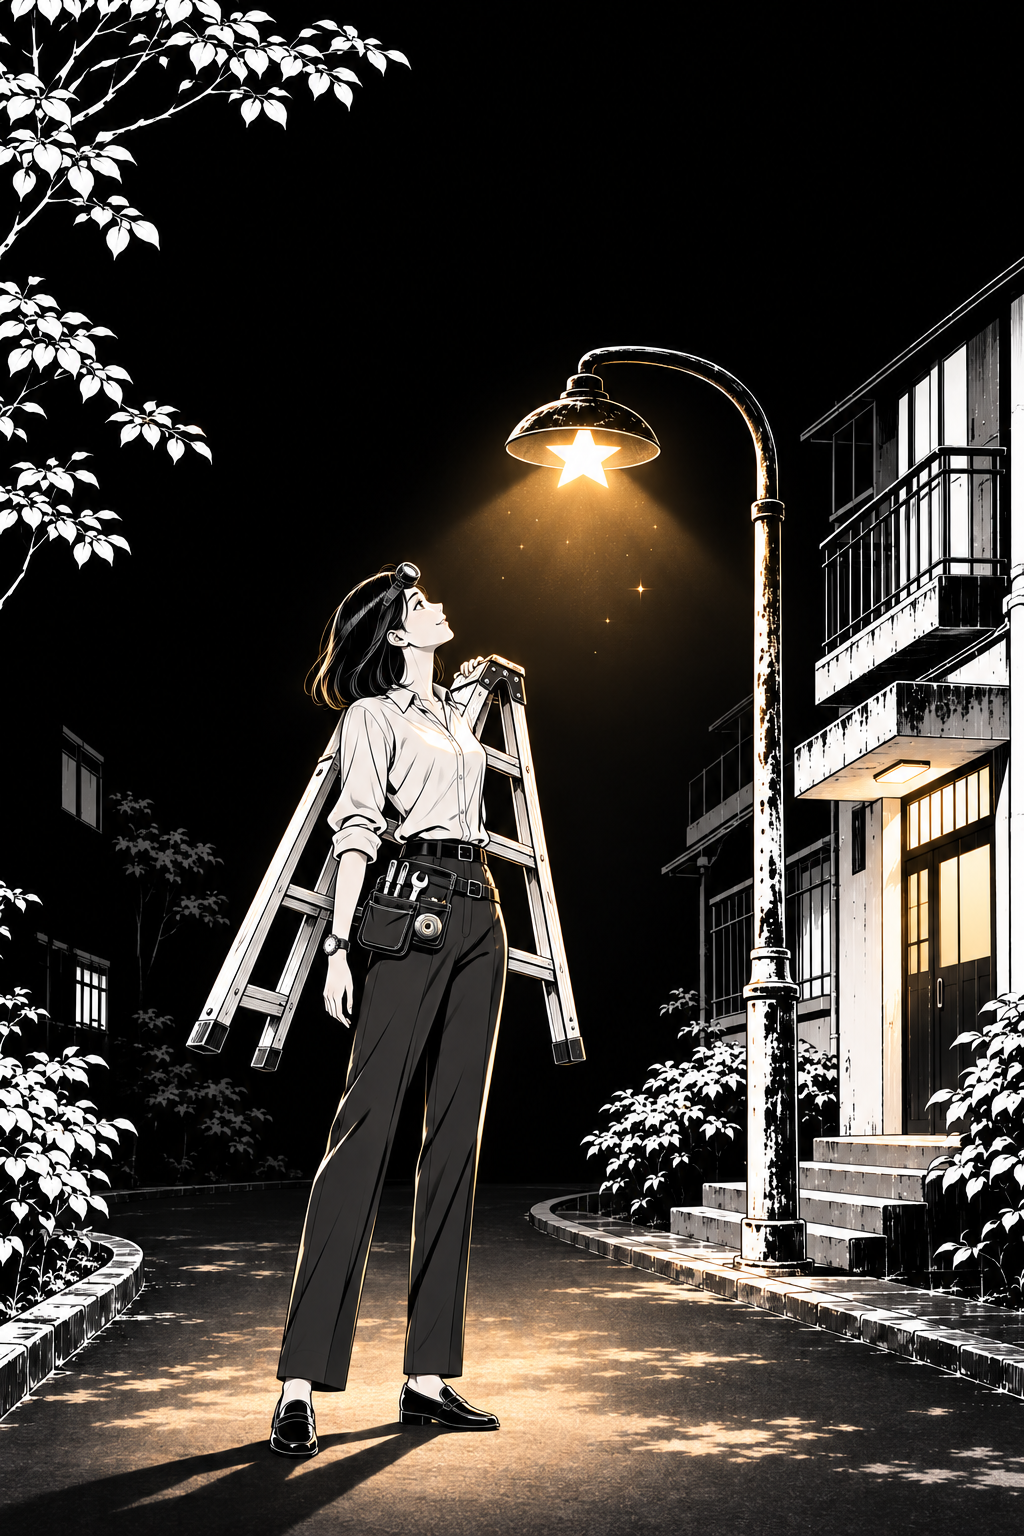
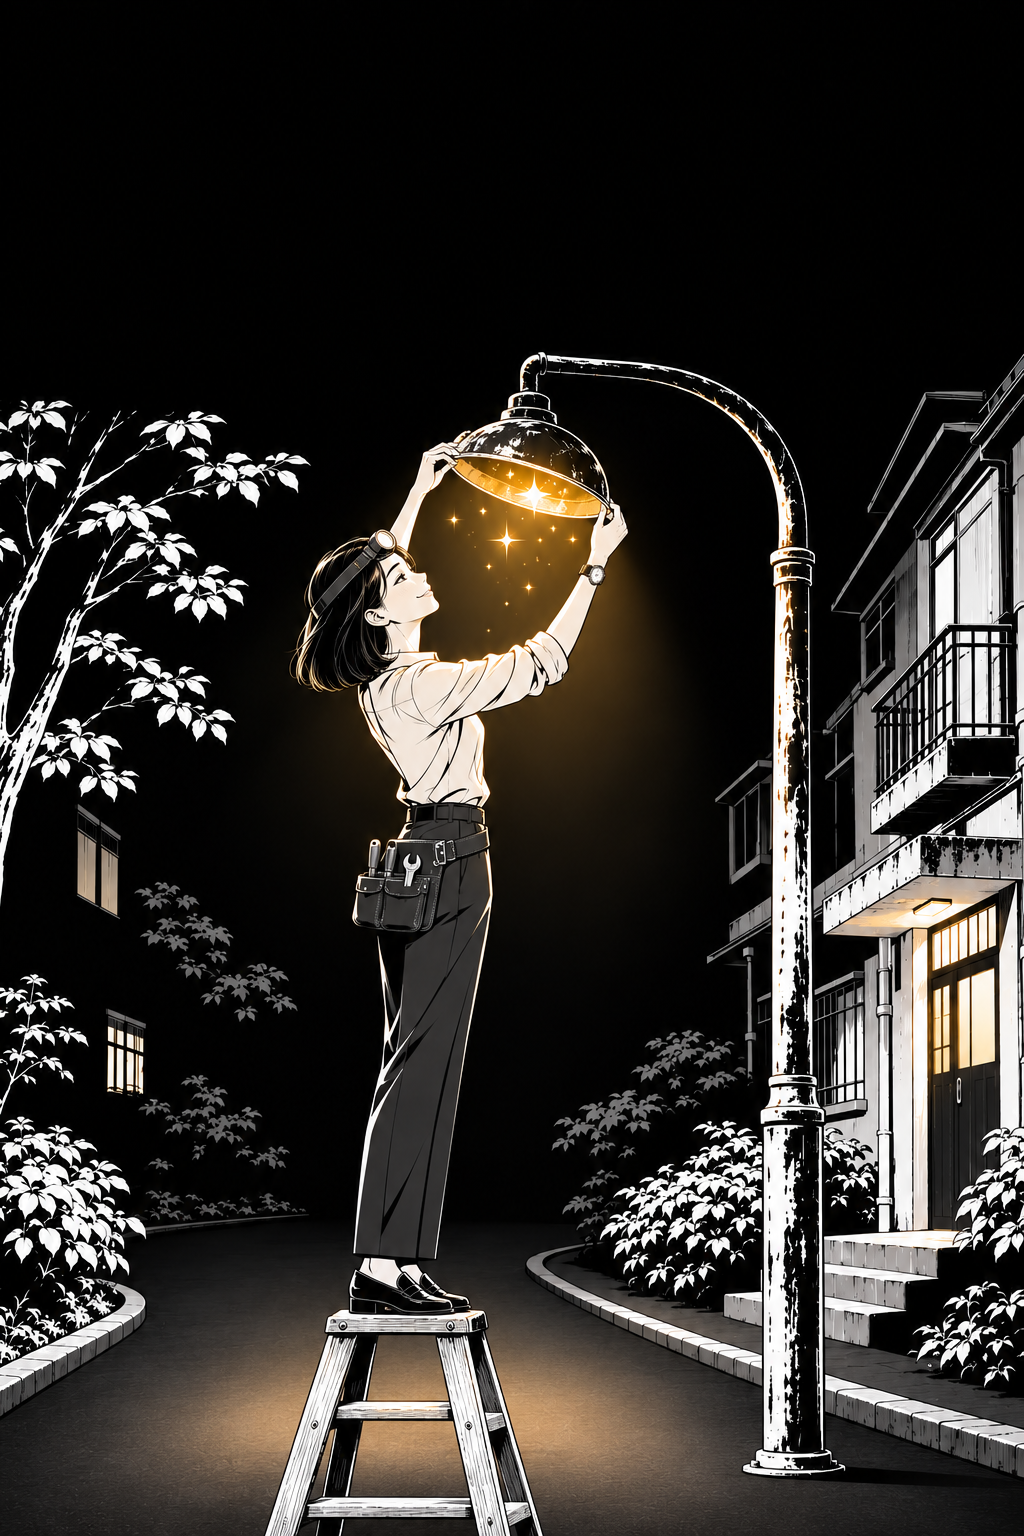
[视频] ep02 第二版样张：封面改成梯子顶上开灯罩，P5b 用 H3 取出星星，星忽明忽暗

diff --git a/ep02/h3.py b/ep02/h3.py
@@ -1,0 +1,121 @@
+"""第 2 期视频的 H3 镜头（4090 上的 MiniMax H3，排队方式同 ../ep01/h3.py：只往空着的实例里插）。
+
+  ../../../ucl-video/.venv/bin/python h3.py [镜头 ...]     出 h3/<镜头>_s<种子>.mp4，已有的跳过
+
+  5b   取星：首帧她的手伸进发光的灯罩（art/5b_first），尾帧星托在掌心、灯罩黑了（art/5b）
+"""
+import os
+import subprocess
+import sys
+import time
+
+import importlib.util
+
+from PIL import Image
+
+HERE = os.path.dirname(os.path.abspath(__file__))
+# 第 1 期的 h3.py：MEDIUM / ENDING 提示词、M（museum/h3.py）、remote。和本文件同名，只能按路径载入
+_spec = importlib.util.spec_from_file_location("ep01_h3", os.path.join(HERE, "..", "ep01", "h3.py"))
+E = importlib.util.module_from_spec(_spec)
+_spec.loader.exec_module(E)
+M, remote = E.M, E.remote
+
+OUT = os.path.join(HERE, "h3")
+SUB, WORK = "yecat02", f"{remote.ROOT}/h3_yecat02"
+SEEDS = [int(s) for s in os.environ.get("H3_SEEDS", "42,7").split(",")]
+# 第 1 期的 MEDIUM 写了黑猫，没有猫的镜头会凭空画出一只猫来：换成不提猫、只有一颗星的版本
+ONE_STAR = ("A black-and-white manga illustration: clean black ink line art and screentone on white paper. "
+            "The only colour is soft gold, used only for one small glowing star and the light it gives. "
+            "The young woman has short black bob hair and a white shirt. There is no cat and no animal anywhere in this scene, "
+            "and there is only that one star, no other stars or sparkles. Everything stays black-and-white ink manga line art. ")
+MEDIUM = {"5b": ONE_STAR}
+SHOTS = {
+    "5b": (os.path.join(HERE, "art", "5b_first.png"), os.path.join(HERE, "art", "5b.png"),
+           "At night on top of the wooden ladder, the young woman reaches into the open round metal lamp shade and gently lifts out "
+           "the small glowing gold star; as the star leaves, the inside of the lamp shade goes dark; she brings the star down and holds it "
+           "in her open palm, where it flickers softly, brighter and dimmer, like a breathing candle. The lamp post, the tree and the building stay still."),
+}
+
+
+def jobs(keys):
+    js = []
+    for k in keys:
+        for seed in SEEDS:
+            if not os.path.exists(os.path.join(OUT, f"{k}_s{seed}.mp4")):
+                w, h = (1248, 832) if Image.open(SHOTS[k][0]).width > Image.open(SHOTS[k][0]).height else (832, 1248)
+                js.append(dict(k=k, seed=seed, tag=f"yecat02_{k}_s{seed}", w=w, h=h, tries=0))
+    return js
+
+
+def upload(js):
+    M.sh(f"mkdir -p {M.COMFY_IN}/{SUB} {WORK}")
+    tmp = os.path.join(OUT, "_prompts")
+    os.makedirs(tmp, exist_ok=True)
+    for j in js:
+        first, last, motion = SHOTS[j["k"]]
+        open(os.path.join(tmp, j["tag"] + ".txt"), "w").write(MEDIUM.get(j["k"], E.MEDIUM) + motion + E.ENDING)
+        for role, src in (("first", first), ("last", last)):
+            if src:
+                remote._retry(["scp", "-q"] + remote.OPTS + [src, f"{remote.HOST}:{M.COMFY_IN}/{SUB}/{j['k']}_{role}.png"], check=True)
+    remote._retry(["scp", "-q", "-r"] + remote.OPTS + [tmp + "/.", f"{remote.HOST}:{WORK}/"], check=True)
+
+
+def launch(j, port):
+    j["tries"] += 1
+    j["port"] = port
+    last = f"--last {SUB}/{j['k']}_last.png " if SHOTS[j["k"]][1] else ""
+    args = (f"--port {port} --first {SUB}/{j['k']}_first.png {last}--w {j['w']} --h {j['h']} --sec 6 --steps 8 --lora {M.LORA} "
+            f"--seed {j['seed'] + j['tries'] - 1} --prompt-file {WORK}/{j['tag']}.txt --prefix {SUB}/{j['tag']}")
+    M.sh(f"(cd /home/huanghaibin/bin; setsid nohup {M.PY} -u {M.H3RUN} {args} > {WORK}/{j['tag']}.log 2>&1 < /dev/null &)")
+    print(f"launch {j['tag']} on {port} (try {j['tries']})", flush=True)
+
+
+def status(j):
+    log = M.sh(f"cat {WORK}/{j['tag']}.log 2>/dev/null")
+    for line in log.splitlines():
+        if line.startswith("DONE"):
+            return "done", line[line.index("["):].strip("[]' ").split("'")[0]
+    if "Traceback" in log or "status_str" in log or "Error" in log:
+        return "fail", log[-800:]
+    return "run", None
+
+
+def fetch(j, rel):
+    raw = os.path.join(OUT, f"_raw_{j['tag']}.mp4")
+    remote._retry(["scp", "-q"] + remote.OPTS + [f"{remote.HOST}:{M.COMFY_OUT}/{rel}", raw], check=True)
+    subprocess.run([E.imageio_ffmpeg.get_ffmpeg_exe(), "-y", "-loglevel", "error", "-i", raw, "-an", "-c:v", "copy",
+                    os.path.join(OUT, f"{j['k']}_s{j['seed']}.mp4")], check=True)
+    os.remove(raw)
+    print(f"done {j['tag']}", flush=True)
+
+
+def run(keys):
+    todo = jobs(keys)
+    if not todo:
+        return
+    upload(todo)
+    flying = []
+    while todo or flying:
+        for j in list(flying):
+            st, info = status(j)
+            if st == "done":
+                fetch(j, info)
+                flying.remove(j)
+            elif st == "fail":
+                print(f"fail {j['tag']}: {info}", flush=True)
+                flying.remove(j)
+                if j["tries"] < 3:
+                    todo.append(j)
+        busy = {j["port"] for j in flying}
+        for port, (running, pending) in sorted(M.queues().items(), key=lambda kv: kv[1]):
+            if todo and port not in busy and running == 0 and pending == 0:
+                j = todo.pop(0)
+                launch(j, port)
+                flying.append(j)
+                busy.add(port)
+        time.sleep(30)
+
+
+if __name__ == "__main__":
+    os.makedirs(OUT, exist_ok=True)
+    run(sys.argv[1:] or list(SHOTS))

diff --git a/ep02/motion.py b/ep02/motion.py
@@ -3,6 +3,7 @@
   glow 的 ("on", 起, 用时)：区域里的金光先暗着，到“起”秒用“用时”慢慢亮起来，亮了以后轻轻呼吸
     （P6：先亮掌心的星，再亮弯臂上那双眼睛）
   ("on", 起, 用时, "lum")：不只金色，区域里所有亮的线（白色的月牙、耳朵轮廓）都先全黑
+  ("on", 起, 用时, "flicker") / "flicker"：星的光忽明忽暗，不是匀速呼吸（用户 11-05 要求）
   PUSH：某个时刻起很慢地往一个点推近（P6 眼睛亮了以后推向弯臂，眼睛在手机上太小）
 
 第 1 期重做的 ../ep01r/motion.py 按第 1 期的镜头编号写死了冰箱、换姿势、走远，这里不继承它，用到时再借它的函数。
@@ -24,11 +25,29 @@ import layers as L  # noqa: E402
 L.ART = os.path.join(HERE, "art")
 L.SPEC.clear()
 L.SPEC.update({
-    "6": dict(glow=[((440, 380, 700, 640), ("on", 0.5, 1.8)), ((470, 90, 830, 228), ("on", 3.4, 2.2, "lum"))]),
-    "7": dict(glow=[((464, 600, 694, 820), "pulse")], twinkle=[(664, 420, 904, 720)]),  # 掌心的星呼吸；尾尖闪（图已左右翻转，灯杆在右）
+    "1": dict(glow=[((380, 330, 660, 600), "flicker")]),  # 灯罩里的星光
+    "5a": dict(glow=[((400, 220, 1210, 730), "flicker")]),  # 星把灯罩里照亮，一起忽明忽暗
+    "6": dict(glow=[((440, 380, 700, 640), ("on", 0.5, 1.8, "flicker")), ((470, 90, 830, 228), ("on", 3.4, 2.2, "lum"))]),
+    "7": dict(glow=[((464, 600, 694, 820), "flicker")], twinkle=[(664, 420, 904, 720)]),  # 掌心的星；尾尖闪（图已左右翻转，灯杆在右）
 })
 
 PUSH = {"6": dict(at=3.4, secs=8.0, zoom=1.08, center=(600, 200))}  # 起、用时、推到多大、朝哪一点
+
+
+def flicker(t, seed=0):
+    """星的亮度倍数，大约 0.5–1.35：几条不成整数比的正弦叠起来，偶尔往下暗一下，像快没电的星。"""
+    u = t + seed * 1.7
+    v = 0.55 * math.sin(2 * math.pi * u / 1.9) + 0.3 * math.sin(2 * math.pi * u / 0.73 + 1.1) + 0.15 * math.sin(2 * math.pi * u / 0.31 + 2.3)
+    dip = max(0.0, math.sin(2 * math.pi * u / 3.7 + 0.4)) ** 12  # 每三四秒一次明显变暗
+    return 0.95 + 0.4 * v - 0.4 * dip
+
+
+def dim(a, m, f, dark_k=0.22):
+    """把遮罩里的光调到 f 倍：小于 1 往夜色里退，大于 1 更亮。"""
+    if f < 1:
+        dark = a.mean(2, keepdims=True) * dark_k
+        return a * (1 - m * (1 - f)) + dark * m * (1 - f)
+    return a + a * (f - 1) * m
 
 
 class Shot(L.Layered):
@@ -44,9 +63,11 @@ class Shot(L.Layered):
         for m, mode in self.glows:
             if isinstance(mode, tuple):
                 t0, ramp = mode[1], mode[2]
-                f = L.ease((t - t0) / ramp) * (1 + 0.08 * math.sin(2 * math.pi * max(0.0, t - t0 - ramp) / 4.2))
-                dark = a.mean(2, keepdims=True) * (0.03 if mode[-1] == "lum" else 0.22)
-                a = a * (1 - m * (1 - f)) + dark * m * (1 - f) if f < 1 else a + a * (f - 1) * m
+                after = max(0.0, t - t0 - ramp)
+                k = flicker(after) if mode[-1] == "flicker" else 1 + 0.08 * math.sin(2 * math.pi * after / 4.2)
+                a = dim(a, m, L.ease((t - t0) / ramp) * (k if t > t0 + ramp else min(1.0, k)), 0.03 if mode[-1] == "lum" else 0.22)
+            elif mode == "flicker":
+                a = dim(a, m, flicker(t, len(self.key)))
             elif mode == "pulse":
                 a = a + a * 0.10 * math.sin(2 * math.pi * t / 4.2) * m
         return a
@@ -66,14 +87,15 @@ class Shot(L.Layered):
 
 def check():
     rows = []
-    for k, ts in {"6": [0.2, 1.2, 2.6, 3.8, 5.0, 7.5]}.items():
+    for k, ts in {"1": [0.3, 0.9, 1.5, 2.1, 2.7, 3.3], "5a": [0.3, 0.9, 1.5, 2.1, 2.7, 3.3],
+                  "6": [0.2, 1.2, 2.6, 3.8, 5.0, 7.5], "7": [0.3, 0.9, 1.5, 2.1, 2.7, 3.3]}.items():
         sh = Shot(k, 9.0)
         rows.append([sh.frame(t).resize((300, int(300 * sh.H / sh.W))) for t in ts])
-    w, h = 300 * max(len(r) for r in rows), max(r[0].height for r in rows)
-    out = Image.new("RGB", (w, h * len(rows)))
+    w, hs = 300 * max(len(r) for r in rows), [r[0].height for r in rows]
+    out = Image.new("RGB", (w, sum(hs)))
     for i, r in enumerate(rows):
         for j, im in enumerate(r):
-            out.paste(im, (j * 300, i * h))
+            out.paste(im, (j * 300, sum(hs[:i])))
     os.makedirs(os.path.join(HERE, "build"), exist_ok=True)
     out.save(os.path.join(HERE, "build", "motion_check.jpg"), quality=85)
 

diff --git a/ep02/gen.py b/ep02/gen.py
@@ -33,14 +33,23 @@ EDITS = {2: (os.path.join(ROOT, "ep01r", "var", "5a_dry.png"),
              "黑白和金色、女孩的位置大小、路灯的光完全一样。画面里不要任何文字。")}
 # 剧本里的路灯参考是第 1 期的 5a（下雨、弯臂上有猫），照着画会把雨和猫一起画进来：换成 P2 这张不下雨、没猫的
 LAMP_REF = {"ep01/art_C/5a.png": os.path.join(ART, "2.png")}
+# 两格页的参考：剧本写的是第 1 期冰箱那张（为了星的样子），图模型会照搬冰箱和白天；换成同一晚、同一盏灯的 P6
+PANEL_REF = {"5a": os.path.join(ART, "6.png"), "5b": os.path.join(ART, "6.png"), "8a": os.path.join(ART, "6.png")}
+LAMP = "路灯和第三张参考图里的完全一样：灯杆在画面右边，弯臂往左弯，弯臂头上一只朝下的圆铁皮灯罩；没有月亮，没有远处的高楼。"
 DARK = "路灯的灯罩被拆开了，灯是黑的、一点光都不发；画面里只有一盏路灯，没有别的灯。没有下雨。"
+EDITS_AFTER = {  # 照已出的格子改一处，当 H3 的首帧
+    "5b_first": ("5b", "同一张图，只改这一处：那颗发光的小五角星还在敞开的灯罩里、坐在空的螺口灯座旁，把灯罩内壁照成金色；"
+                       "她的一只手伸进灯罩、指尖快碰到那颗星，另一只手扶着灯罩边；她的掌心里还没有星。其他所有东西一点都不要改："
+                       "构图、线条、画风、黑白和金色、人物的位置大小完全一样。画面里不要任何文字。"),
+}
 # 出图补充：剧本写了、但图模型老画错的地方
 HINT = {
-    "5b": DARK,
+    "5a": "黑夜，室外，她站在梯子顶上；特写只拍敞开的灯罩和她戴手套的那只手，背景是全黑的夜，没有窗户、没有房间、没有白天的光。",
+    "5b": DARK + LAMP,
     "6": DARK + "镜头放在梯子下方很低的地方往上仰拍。路灯弯臂上的黑猫几乎完全融进黑夜，看不见身体和毛，只看得见两点琥珀金的眼睛、"
          "额头一道金色月牙和一圈极淡的金色耳朵轮廓。",
     "7": DARK,
-    "8a": DARK,
+    "8a": DARK + LAMP,
 }
 
 
@@ -52,6 +61,10 @@ def art(key):
     """key：页码，或 "5a" / "5b"（两格页的上下格，横图）。"""
     out = os.path.join(ART, f"{key}.png")
     if os.path.exists(out):
+        return out
+    if key in EDITS_AFTER:
+        src, prompt = EDITS_AFTER[key]
+        base.edit(prompt, [art(src)], out, size="1536x1024")
         return out
     no = int(str(key).rstrip("ab"))
     p = PAGES[no]
@@ -67,7 +80,7 @@ def art(key):
         layout = G.COVER_LAYOUT if no == 1 else "竖版构图：人物和主要内容在画面中间偏上，脸部完整清楚。"
         size = "1024x1536"
     refs = [G.REF, G.GIRL_REF]
-    extra = [LAMP_REF.get(r, os.path.join(ROOT, r)) for r in p["refs"]][:1]
+    extra = [PANEL_REF[key]] if key in PANEL_REF else [LAMP_REF.get(r, os.path.join(ROOT, r)) for r in p["refs"]][:1]
     ref_note = "第三张参考图是故事里那个地方（路灯、房间）原来的样子，场景照它画，但人物的动作和构图照这里写的。" if extra else ""
     who = (G.GIRL + "。" if "她" in scene else "") + (CAT_WORK + "。" if has_cat(scene) else "")
     base.edit(f"{G.STYLE}。{who}场景：{scene}{HINT.get(str(key), "")}{layout}{ref_note}{G.NO_TEXT}", refs + extra, out, size=size)

diff --git a/ep02/video.py b/ep02/video.py
@@ -3,6 +3,8 @@
   ../../../ucl-video/.venv/bin/python video.py              # 出 和夜一起住02.mp4
   ONLY=6 ../../../ucl-video/.venv/bin/python video.py       # 只出这几个镜头（样张），出 样张_6.mp4
 
+5b（取星）放 H3 片段，其余镜头是分层动效（motion.py）。
+
 字幕四种样式（配方.md）：旁白白字；晴白字 + 黑白“晴”字章；夜琥珀色 + 金“夜”字章；配角灰字。
 纸条按写纸条的人走晴或夜的样式。封面的标题叠在第一个镜头上。
 """
@@ -23,7 +25,25 @@ from PIL import Image, ImageDraw  # noqa: E402
 
 V.ART = os.path.join(HERE, "art")
 V.layers.Layered = motion.Shot
-V.H3_SHOTS = []
+# H3 片段（h3.py 出）：5b 取星。环境变量 C5B 换种子
+CLIPS = {"5b": os.path.join(HERE, "h3", os.environ.get("C5B", "5b_s42") + ".mp4")}
+V.H3_SHOTS = list(CLIPS)
+_load = V.Shot.load
+
+
+def load(self):
+    """取星那一下灯罩本来就该变暗：不对首帧校色、不剪暗掉的帧（同第 1 期的 7b、重做版的 n2）。"""
+    if self.key != "5b" or self.frames is not None or not os.path.exists(self.clip):
+        return _load(self)
+    r = V.imageio_ffmpeg.read_frames(self.clip)
+    meta = next(r)
+    w, h = meta["size"]
+    self.fps = meta["fps"]
+    self.frames = [Image.fromarray(np.frombuffer(b, np.uint8).reshape(h, w, 3)) for b in r]
+    return self.frames
+
+
+V.Shot.load = load
 NO = 2
 TITLE = ("灯罩里没有灯泡，", "只有一颗星星")
 GREY = (170, 168, 162)
@@ -107,7 +127,7 @@ def plan(only=None):
             clips.append(np.zeros(int(d * V.SR)))
             t += d + V.GAP
         dur = t - V.GAP + V.TAIL + (V.END_HOLD if key == table[-1][0] else 0)
-        floor = 5.5 if key == "1" else 4.0  # 封面留给标题；镜头最短 4 秒
+        floor = 5.5 if key == "1" else 6.5 if key in CLIPS else 4.0  # 封面留给标题；H3 片段 6 秒要放完；镜头最短 4 秒
         shots.append((key, max(dur, want or 0, floor), subs))
     if only:
         shots = [s for s in shots if s[0] in only]
@@ -120,6 +140,8 @@ if __name__ == "__main__":
     V.END = end_layer() if not only else Image.new("RGBA", (V.W, V.H))
     shots, clips = plan(only)
     objs = [V.Shot(k, d, s, i) for i, (k, d, s) in enumerate(shots)]
+    for o in objs:
+        o.clip = CLIPS.get(o.key, "")
     starts = np.cumsum([0] + [o.dur - V.FADE for o in objs[:-1]])
     total = starts[-1] + objs[-1].dur
     print(f"总长 {total:.1f}s，{len(objs)} 个镜头", flush=True)

diff --git a/ep02/剧本.md b/ep02/剧本.md
@@ -14,12 +14,12 @@
 - 偏离 v2：① v2 写她“从鞋盒里取出一颗自己调过三遍色的灯泡”装进路灯，但第 12 集鞋盒里还要有五颗。改成她新调的一颗，不从鞋盒拿；装灯泡的过程不画，第 9 页看得见。② 第 9 页 v2 是旁白“那是我第一颗，没打算拧走的灯泡。”，第 1 期第 9 页也是旁白收尾，连着两集不用同一种收法，改成她当面说“这颗，我不拧走。”。③ 封面不放猫，把那双眼睛留给第 6 页揭晓。
 
 ## P1 封面
-- 拍点：一盏怪灯：灯罩里透出来的是一团星形的光。
-- 画面：深夜，楼下的小路，那盏弯颈铁杆路灯亮着，灯罩是朝下的圆铁皮罩，罩里透出一团星星形状的琥珀金光，光的轮廓就是一颗五角星。她扛着一架木头人字梯站在灯下仰头看，额头戴着头灯（关着），腰上系着工具腰包。路灯的弯臂上是空的，画面里没有猫，没有下雨。画面上方 30% 是干净的夜空，留给标题。
+- 拍点：一盏怪灯：她打开灯罩，里面透出来的是一团星形的光。
+- 画面：深夜，楼下的小路，那盏弯颈铁杆路灯，灯杆在画面右边、弯臂往左弯，灯头在画面中间偏上（大约 40% 的高度）。她站在木头人字梯的顶上，双手把朝下的圆铁皮灯罩掀开一半，罩里透出一团星星形状的琥珀金光，金光从上往下照亮她仰起的脸和肩膀；她额头戴着关着的头灯，腰上系着工具腰包。路灯的弯臂上是空的，画面里没有猫，没有下雨。画面上方 30% 是干净的夜空，留给标题。
 - 参考：ep01/art_C/5a.png
 - 字：
   - 标题：灯罩里没有灯泡，只有一颗星星
-- 落地备注：封面不放猫，留给第 6 页。视频方觉得封面必须有猫，可以在弯臂上放一团看不清的黑影。
+- 落地备注：封面不放猫，留给第 6 页。用户 11-05 看样张后改：原来扛着梯子站在灯下那张穿帮、也不好看，改成直接在梯子顶上开灯罩。
 
 ## P2
 - 拍点：这盏灯有规律：只在她加班的晚上亮。
@@ -51,7 +51,7 @@
   - a 晴：……线是断的。
   - b （无字）
 - 时长：b 5
-- 落地备注：b 可以用 H3，首帧是星还在灯座上、灯罩发金光的变体图，尾帧是这张原图。
+- 落地备注：b 用 H3，首帧是星还在灯座上、她的手伸进灯罩的变体图，尾帧是这张原图：看得到她把星取出来（用户 11-05 要求）。星拿到手里以后忽明忽暗。
 
 ## P6 名场面
 - 拍点：她撞破了它的秘密，它也被她抓了个正着。
@@ -60,7 +60,7 @@
 - 字：
   - （无字）
 - 时长：9
-- 落地备注：金光慢慢亮起，先只有掌心的星，再亮起上方那双眼睛。
+- 落地备注：金光慢慢亮起，先只有掌心的星，再亮起上方那双眼睛。掌心的星忽明忽暗，不是匀速呼吸（用户 11-05 要求）。
 
 ## P7
 - 拍点：她不问，反撩；它嘴硬，尾尖露了馅。

diff --git a/协作/进度.md b/协作/进度.md
@@ -5,7 +5,7 @@
 | 集 | 标题（v2 大纲） | 状态 | 负责人 | 备注 |
 |---|---|---|---|---|
 | 01 | 我的新室友，是一只上夜班的猫 | 已发 | 视频方 | `ep01r/`，11-05 发视频版 |
-| 02 | 灯罩里没有灯泡，只有一颗星星 | 用户待审 | 用户 | `ep02/剧本.md`，检查脚本 0 错误 0 警告、台词红队已改；`视频正文.txt` 已写；11-05 19:57 按 `ep02/审校.md` 两处改完，可以出样张；11-05 20:50 样张见 `ep02/审校.md`「样张」；11-05 20:27 写稿方看过：P7 左右翻转后直接转用户；21:15 已翻转，样张转用户 |
+| 02 | 灯罩里没有灯泡，只有一颗星星 | 用户待审 | 用户 | `ep02/剧本.md`，检查脚本 0 错误 0 警告、台词红队已改；`视频正文.txt` 已写；11-05 19:57 按 `ep02/审校.md` 两处改完，可以出样张；11-05 20:50 样张见 `ep02/审校.md`「样张」；11-05 20:27 写稿方看过：P7 左右翻转后直接转用户；21:15 已翻转，样张转用户；22:10 按用户意见改封面、加取星（H3）、星忽明忽暗，第二版样张待用户看 |
 | 03 | 凌晨三点，它来借我的光给星星充电 | 剧本待审 | 用户 | `ep03/剧本.md`，检查脚本 0 错误 0 警告、台词红队已改；`视频正文.txt` 已写；11-05 19:57 按 `ep03/审校.md` 两处改完，视频方不用再审；只等用户拍板规则一，拍板后即定稿 |
 | 04 | 我留的灯，它哄了二十分钟都没睡着 | 剧本定稿 | 视频方 | `ep04/剧本.md`，检查脚本 0 错误 0 警告、台词红队已改；`视频正文.txt` 已写；11-05 20:43；11-05 21:30 视频方审过定稿，见 `ep04/审校.md`；11-05 20:54 写稿方采纳封面建议（P1 侧脸）；排在第 2、3 集后面出图 |
 | 05 | 晚风破了个洞，它说明天出不了勤 | | | |

diff --git a/ep02/审校.md b/ep02/审校.md
@@ -60,3 +60,14 @@
 - **P6**：采纳你的可选建议，眼睛亮起来以后（3.4 秒起），用 8 秒很慢地推到 1.08 倍，推向弯臂。
 - **P7 补半个灯罩**：先不补，等用户看完样张再说。
 - 样张两张图都已更新，进度改成「用户待审」。
+
+## 用户看样张（11-05）
+
+【视频方 11-05 22:10】用户提了两条，已改：
+1. **封面**：扛着梯子那张穿帮、不好看，改成她站在梯子顶上掀开灯罩，罩里透出星光。剧本 P1 已改。
+2. **灯的动态**：
+   - 加了“取出星星”：P5b 用 H3，首帧是她的手伸进发光的灯罩，尾帧是星托在掌心、灯罩黑了。
+   - 星改成忽明忽暗：封面、P5a、P6、P7 都是，不再是匀速呼吸。
+
+第二版样张 `样张/视频_样张2抽帧.jpg`，镜头是 1、5a、5b、6、7，共 32 秒。成片在本地 `ep02/样张_1_5a_5b_6_7.mp4`。
+P5 两格原来的参考图是第 1 期的冰箱，图模型画成了白天的屋里、换了一盏灯；`gen.py` 里换成同一晚的 P6 当参考。

diff --git a/协作/留言.md b/协作/留言.md
@@ -41,3 +41,5 @@
 4. **画面字只有 P8 一处，但有两段字**：左门是她的便签（钢笔体），右门是它的星光字“知道了。”（娃娃体，金色），一人一半门。冰箱那格不写参考，`3.png` 是门开着的。
 5. **第 9 页收法是晴**，和第 3 集的纸条错开。v2 第 9 页的星光字挪到了第 8 页，偏离 v2 的几处写在剧本“本集”里，都没动剧情走向。
 6. 名场面 P5 估在全片 41%，偏前一点。无字镜头的时长你按动效定就行。
+
+【视频方 11-05 22:10】用户让写稿方上传、停下了，之后视频方单干：剧本、出图、成片都由视频方做，准则和检查脚本照用。
